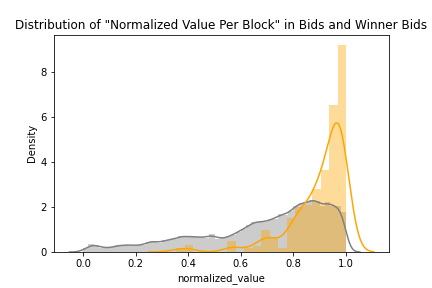
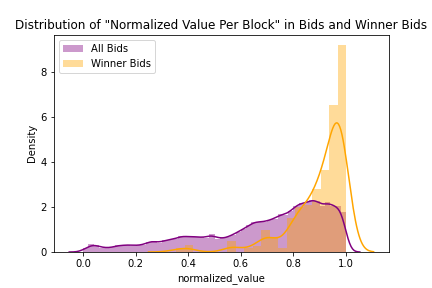
fix label

Changed region(s): [[0.1806, 0.6875, 0.8426, 0.875], [0.1204, 0.125, 0.3611, 0.2812]]

diff --git a/MEV_boost_EDA.py b/MEV_boost_EDA.py
@@ -37,10 +37,12 @@ else:
 #
 sns.distplot(bids_df['gasUsedRatio'],color='green')
 plt.savefig('graphs/gasUsedRatio.png')
+plt.show()
 
 #
 sns.distplot(bids_df['num_tx'],color='blue')
 plt.savefig('graphs/num_tx.png')
+plt.show()
 
 #
 num_tx = matched_df['num_tx']
@@ -56,17 +58,27 @@ plt.savefig('graphs/Scatter Plot of Base Fee per Gas vs Number of Transactions.p
 plt.show()
 
 #
-sns.distplot(bids_df['normalized_num_tx'],color='cyan', label='All Bids')
+sns.distplot(bids_df['normalized_num_tx'],color='blue', label='All Bids')
 sns.distplot(matched_df['normalized_num_tx'], color='orange', label='Winner Bids')
+plt.legend()
 
 plt.title('Distribution of "Normalized Number of Transactions" in Bids and Winner Bids')
 plt.savefig('graphs/Distribution of Normalized_num_tx in Bids and Winner Bids.png')
 plt.show()
 
+#####
+sns.distplot(bids_df['gasUsedRatio'],color='green', label='All Bids')
+sns.distplot(matched_df['gasUsedRatio'], color='orange', label='Winner Bids')
+plt.legend()
+
+plt.title('Distribution of "Gas Used Ratio" in Bids and Winner Bids')
+plt.savefig('graphs/Distribution of gasUsedRatio in Bids and Winner Bids.png')
+plt.show()
+
 #
-sns.distplot(bids_df['value'],color='grey', label='All Bids')
+sns.distplot(bids_df['value'],color='purple', label='All Bids')
 sns.distplot(matched_df['value'], color='orange', label='Winner Bids')
-sns.distplot(bids_df['value_max'], color='blue', label='Max bid value per block')
+sns.distplot(bids_df['value_max'], color='grey', label='Max bid value per block')
 plt.legend()
 
 plt.title('Distribution of "Value" in Bids and Winner Bids')
@@ -74,8 +86,9 @@ plt.savefig('graphs/Distribution of Value in Bids and Winner Bids.png')
 plt.show()
 
 #
-sns.distplot(bids_df['normalized_value'],color='grey', label='All Bids')
+sns.distplot(bids_df['normalized_value'],color='purple', label='All Bids')
 sns.distplot(matched_df['normalized_value'], color='orange', label='Winner Bids')
+plt.legend()
 
 plt.title('Distribution of "Normalized Value Per Block" in Bids and Winner Bids')
 plt.savefig('graphs/Distribution of Normalized_Value Per Block in Bids and Winner Bids.png')
@@ -119,7 +132,7 @@ plt.savefig('graphs/Scatter Plot of Winner Bids Normalized Time Difference vs Bl
 plt.show()
 
 #
-sns.distplot(bids_df['normalized_t_diff'],color='purple', label='All Bids')
+sns.distplot(bids_df['normalized_t_diff'],color='magenta', label='All Bids')
 sns.distplot(matched_df['normalized_t_diff'],color='orange', label = 'Winner Blocks')
 plt.legend()
 plt.xlim(0, 1)
